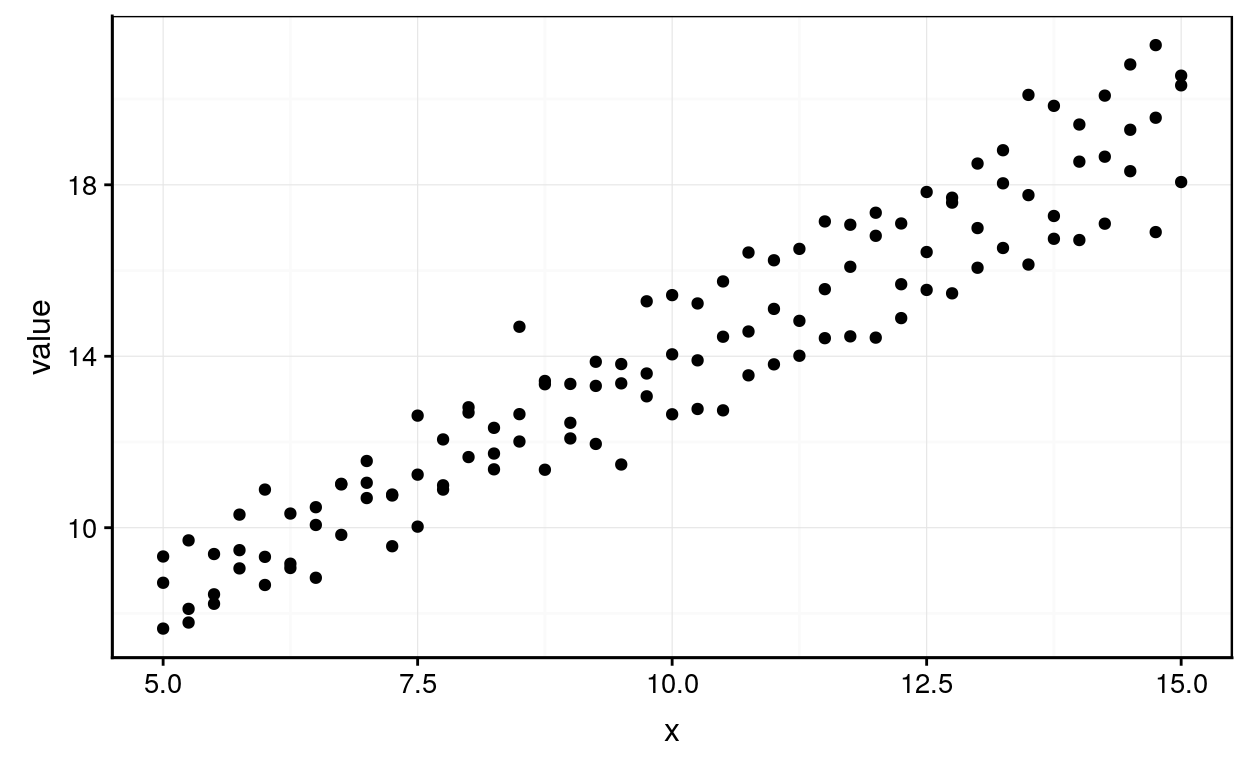
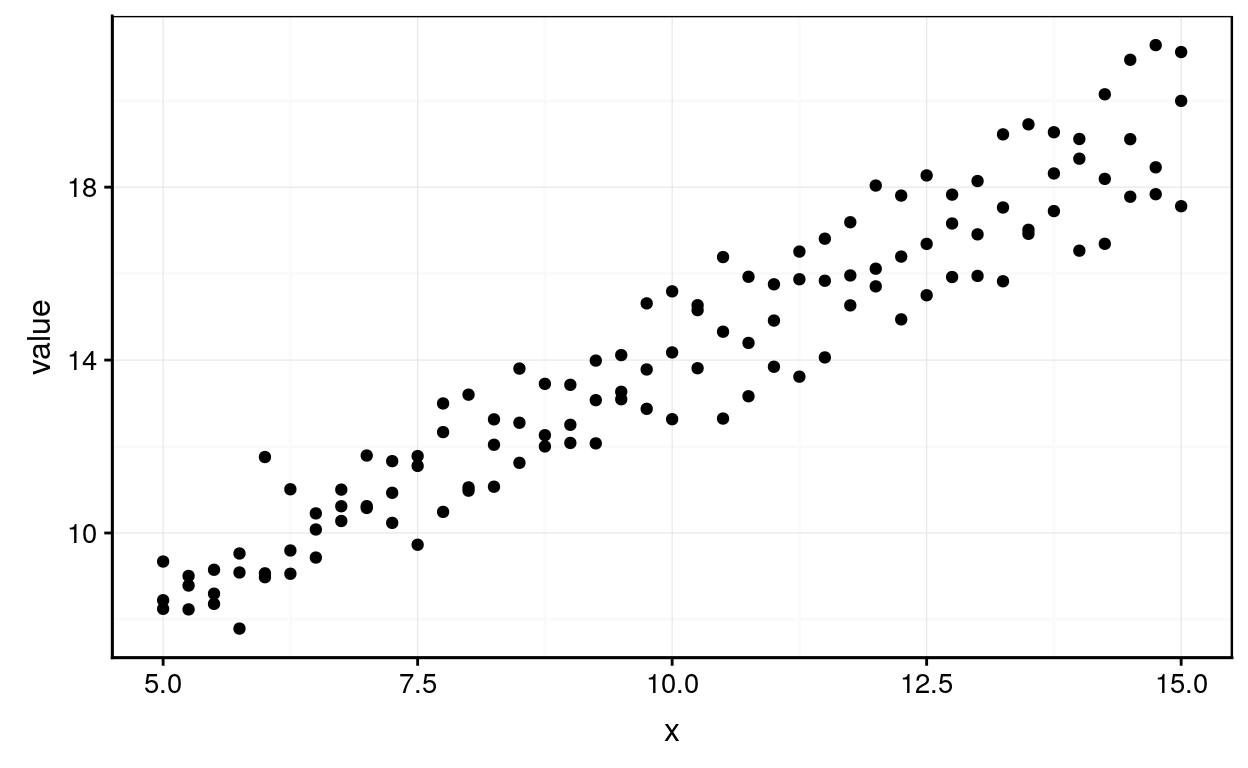
01a_reg_lin changements mineurs

diff --git a/inst/tutorials/01a_reg_lin/reg_lin_simp.html b/inst/tutorials/01a_reg_lin/reg_lin_simp.html
@@ -100,14 +100,14 @@ correlation(DF[, INDEX_EXPRESSION], use = &quot;complete.obs&quot;, method = &qu
 </div>
 <p>Répondez à la question ci-dessous</p>
 
-<div id="htmlwidget-3df863f24ac0b9c240ae" style="width:100%;height:auto;", class = "quiz html-widget">
+<div id="htmlwidget-b0187c75631e061f7bce" style="width:100%;height:auto;", class = "quiz html-widget">
 <div class="panel panel-default">
 <div class="panel-body quizArea">
 </div>
 </div>
 </div>
 
-<script type="application/json" data-for="htmlwidget-3df863f24ac0b9c240ae">{"x":{"question":"Quelles sont les combinaisons de variables les plus corrélées ?","answers":[{"option":"x-y","correct":true,"message":null},{"option":"x-z","correct":false,"message":null},{"option":"x-a","correct":false,"message":null},{"option":"y-z","correct":false,"message":null},{"option":"y-a","correct":false,"message":null},{"option":"z-a","correct":false,"message":null}],"label":"qu_corr1","skipStartButton":true,"perQuestionResponseAnswers":true,"perQuestionResponseMessaging":true,"preventUnanswered":true,"displayQuestionCount":false,"displayQuestionNumber":false,"disableRanking":true,"nextQuestionText":"","checkAnswerText":"Submit Answer","allowRetry":true,"randomSortAnswers":true,"json":{"info":{"name":"","main":""},"questions":[{"q":"Quelles sont les combinaisons de variables les plus corrélées ?","a":[{"option":"x-y","correct":true,"message":null},{"option":"x-z","correct":false,"message":null},{"option":"x-a","correct":false,"message":null},{"option":"y-z","correct":false,"message":null},{"option":"y-a","correct":false,"message":null},{"option":"z-a","correct":false,"message":null}],"correct":"Correct!","incorrect":"Incorrect."}]}},"evals":[],"jsHooks":[]}</script>
+<script type="application/json" data-for="htmlwidget-b0187c75631e061f7bce">{"x":{"question":"Quelles sont les combinaisons de variables les plus corrélées ?","answers":[{"option":"x-y","correct":true,"message":null},{"option":"x-z","correct":false,"message":null},{"option":"x-a","correct":false,"message":null},{"option":"y-z","correct":false,"message":null},{"option":"y-a","correct":false,"message":null},{"option":"z-a","correct":false,"message":null}],"label":"qu_corr1","skipStartButton":true,"perQuestionResponseAnswers":true,"perQuestionResponseMessaging":true,"preventUnanswered":true,"displayQuestionCount":false,"displayQuestionNumber":false,"disableRanking":true,"nextQuestionText":"","checkAnswerText":"Submit Answer","allowRetry":true,"randomSortAnswers":true,"json":{"info":{"name":"","main":""},"questions":[{"q":"Quelles sont les combinaisons de variables les plus corrélées ?","a":[{"option":"x-y","correct":true,"message":null},{"option":"x-z","correct":false,"message":null},{"option":"x-a","correct":false,"message":null},{"option":"y-z","correct":false,"message":null},{"option":"y-a","correct":false,"message":null},{"option":"z-a","correct":false,"message":null}],"correct":"Correct!","incorrect":"Incorrect."}]}},"evals":[],"jsHooks":[]}</script>
 <ul>
 <li>Réalisez une matrice de correlation avec la méthode de Spearman</li>
 </ul>
@@ -129,14 +129,14 @@ correlation(DF[, INDEX_EXPRESSION], use = &quot;complete.obs&quot;, method = &qu
 </div>
 <p>Répondez à la question ci-dessous</p>
 
-<div id="htmlwidget-6d1817a09071ea6916d6" style="width:100%;height:auto;", class = "quiz html-widget">
+<div id="htmlwidget-590a72c2da95e00e7ca0" style="width:100%;height:auto;", class = "quiz html-widget">
 <div class="panel panel-default">
 <div class="panel-body quizArea">
 </div>
 </div>
 </div>
 
-<script type="application/json" data-for="htmlwidget-6d1817a09071ea6916d6">{"x":{"question":"Quelles sont les combinaisons de variables les moins corrélées ?","answers":[{"option":"x-y","correct":false,"message":null},{"option":"x-z","correct":false,"message":null},{"option":"x-a","correct":false,"message":null},{"option":"y-z","correct":false,"message":null},{"option":"y-a","correct":false,"message":null},{"option":"z-a","correct":true,"message":null}],"label":"qu_corr2","skipStartButton":true,"perQuestionResponseAnswers":true,"perQuestionResponseMessaging":true,"preventUnanswered":true,"displayQuestionCount":false,"displayQuestionNumber":false,"disableRanking":true,"nextQuestionText":"","checkAnswerText":"Submit Answer","allowRetry":true,"randomSortAnswers":true,"json":{"info":{"name":"","main":""},"questions":[{"q":"Quelles sont les combinaisons de variables les moins corrélées ?","a":[{"option":"x-y","correct":false,"message":null},{"option":"x-z","correct":false,"message":null},{"option":"x-a","correct":false,"message":null},{"option":"y-z","correct":false,"message":null},{"option":"y-a","correct":false,"message":null},{"option":"z-a","correct":true,"message":null}],"correct":"Correct!","incorrect":"Incorrect."}]}},"evals":[],"jsHooks":[]}</script>
+<script type="application/json" data-for="htmlwidget-590a72c2da95e00e7ca0">{"x":{"question":"Quelles sont les combinaisons de variables les moins corrélées ?","answers":[{"option":"x-y","correct":false,"message":null},{"option":"x-z","correct":false,"message":null},{"option":"x-a","correct":false,"message":null},{"option":"y-z","correct":false,"message":null},{"option":"y-a","correct":false,"message":null},{"option":"z-a","correct":true,"message":null}],"label":"qu_corr2","skipStartButton":true,"perQuestionResponseAnswers":true,"perQuestionResponseMessaging":true,"preventUnanswered":true,"displayQuestionCount":false,"displayQuestionNumber":false,"disableRanking":true,"nextQuestionText":"","checkAnswerText":"Submit Answer","allowRetry":true,"randomSortAnswers":true,"json":{"info":{"name":"","main":""},"questions":[{"q":"Quelles sont les combinaisons de variables les moins corrélées ?","a":[{"option":"x-y","correct":false,"message":null},{"option":"x-z","correct":false,"message":null},{"option":"x-a","correct":false,"message":null},{"option":"y-z","correct":false,"message":null},{"option":"y-a","correct":false,"message":null},{"option":"z-a","correct":true,"message":null}],"correct":"Correct!","incorrect":"Incorrect."}]}},"evals":[],"jsHooks":[]}</script>
 <ul>
 <li>Reproduisez le graphique ci-dessous en vous basant sur vos matrices réalisées précédements</li>
 </ul>
@@ -149,6 +149,9 @@ correlation(DF[, INDEX_EXPRESSION], use = &quot;complete.obs&quot;, method = &qu
 </div>
 <div class="tutorial-exercise-support" data-label="corr3-solution" data-caption="Code R" data-completion="1" data-diagnostics="1" data-startover="1" data-lines="0">
 <pre class="text"><code>plot(correlation(df[, 1:4], use = &quot;complete.obs&quot;, method = &quot;spearman&quot;), type = &quot;upper&quot;)</code></pre>
+</div>
+<div class="tutorial-exercise-support" data-label="corr3-check" data-caption="Code R" data-completion="1" data-diagnostics="1" data-startover="1" data-lines="0">
+<pre class="text"><code># TODO</code></pre>
 </div>
 </div>
 <div id="section-homoscedasicite" class="section level2">
@@ -186,26 +189,26 @@ bartlett.test(data = df, value ~ x)</code></pre>
 <pre class="text"><code># TODO</code></pre>
 </div>
 
-<div id="htmlwidget-2be8afc5e70c9632d8cf" style="width:100%;height:auto;", class = "quiz html-widget">
+<div id="htmlwidget-0f774cb87b795c739872" style="width:100%;height:auto;", class = "quiz html-widget">
 <div class="panel panel-default">
 <div class="panel-body quizArea">
 </div>
 </div>
 </div>
 
-<script type="application/json" data-for="htmlwidget-2be8afc5e70c9632d8cf">{"x":{"question":"D&#39;après votre analyse, pouvons nous considérer qu&#39;il y a ...","answers":[{"option":"homoscédasticité","correct":false,"message":null},{"option":"hétéroscédasticité","correct":false,"message":null}],"label":"qu_homo","skipStartButton":true,"perQuestionResponseAnswers":true,"perQuestionResponseMessaging":true,"preventUnanswered":true,"displayQuestionCount":false,"displayQuestionNumber":false,"disableRanking":true,"nextQuestionText":"","checkAnswerText":"Submit Answer","allowRetry":false,"randomSortAnswers":false,"json":{"info":{"name":"","main":""},"questions":[{"q":"D&#39;après votre analyse, pouvons nous considérer qu&#39;il y a ...","a":[{"option":"homoscédasticité","correct":false,"message":null},{"option":"hétéroscédasticité","correct":false,"message":null}],"correct":"Correct!","incorrect":"Incorrect."}]}},"evals":[],"jsHooks":[]}</script>
+<script type="application/json" data-for="htmlwidget-0f774cb87b795c739872">{"x":{"question":"D&#39;après votre analyse, pouvons nous considérer qu&#39;il y a ...","answers":[{"option":"homoscédasticité","correct":false,"message":null},{"option":"hétéroscédasticité","correct":false,"message":null}],"label":"qu_homo","skipStartButton":true,"perQuestionResponseAnswers":true,"perQuestionResponseMessaging":true,"preventUnanswered":true,"displayQuestionCount":false,"displayQuestionNumber":false,"disableRanking":true,"nextQuestionText":"","checkAnswerText":"Submit Answer","allowRetry":false,"randomSortAnswers":false,"json":{"info":{"name":"","main":""},"questions":[{"q":"D&#39;après votre analyse, pouvons nous considérer qu&#39;il y a ...","a":[{"option":"homoscédasticité","correct":false,"message":null},{"option":"hétéroscédasticité","correct":false,"message":null}],"correct":"Correct!","incorrect":"Incorrect."}]}},"evals":[],"jsHooks":[]}</script>
 </div>
 <div id="section-regression-lineaire" class="section level2">
 <h2>Régression linéaire</h2>
 <p>Réalisez la régression linéaire de <code>value</code> en fonction de <code>x</code> sur le jeu de données <code>mais</code>. Vous avez à votre dispositon un nuage de points et un résumé des données pour avoir une première connaissance de données.</p>
 <p><img src="reg_lin_simp_files/figure-html/unnamed-chunk-6-1.png" width="624" /></p>
 <pre><code>       x            value        area  
- Min.   : 5.0   Min.   : 7.647   a:41  
- 1st Qu.: 7.5   1st Qu.:11.036   b:41  
- Median :10.0   Median :13.818   c:41  
- Mean   :10.0   Mean   :13.956         
- 3rd Qu.:12.5   3rd Qu.:16.726         
- Max.   :15.0   Max.   :21.259         </code></pre>
+ Min.   : 5.0   Min.   : 7.789   a:41  
+ 1st Qu.: 7.5   1st Qu.:11.063   b:41  
+ Median :10.0   Median :13.812   c:41  
+ Mean   :10.0   Mean   :14.000         
+ 3rd Qu.:12.5   3rd Qu.:16.689         
+ Max.   :15.0   Max.   :21.286         </code></pre>
 <div class="tutorial-exercise-support" data-label="reg1-prep" data-caption="Code R" data-completion="1" data-diagnostics="1" data-startover="1" data-lines="0">
 <pre class="text"><code>set.seed(42)
 x &lt;- seq(from = 5, to = 15, by = 0.25)
@@ -242,27 +245,27 @@ summary(lm. &lt;- lm(data = DF, FORMULA))</code></pre>
 <tr>
 <td>
 
-<div id="htmlwidget-36bc903447cf0551bcce" style="width:100%;height:auto;", class = "quiz html-widget">
+<div id="htmlwidget-b13090575c46ef109868" style="width:100%;height:auto;", class = "quiz html-widget">
 <div class="panel panel-default">
 <div class="panel-body quizArea">
 </div>
 </div>
 </div>
 
-<script type="application/json" data-for="htmlwidget-36bc903447cf0551bcce">{"x":{"question":"Quelle est la valeur de l&#39;ordonnée à l&#39;origine ?","answers":[{"option":"3.26","correct":true,"message":null},{"option":"1.07","correct":false,"message":null},{"option":"0.32","correct":false,"message":null},{"option":"0.03","correct":false,"message":null},{"option":"10.21","correct":false,"message":null},{"option":"35.04","correct":false,"message":null},{"option":"0.91","correct":false,"message":null}],"label":"qu_reglin1-1","skipStartButton":true,"perQuestionResponseAnswers":true,"perQuestionResponseMessaging":true,"preventUnanswered":true,"displayQuestionCount":false,"displayQuestionNumber":false,"disableRanking":true,"nextQuestionText":"","checkAnswerText":"Submit Answer","allowRetry":true,"randomSortAnswers":true,"json":{"info":{"name":"","main":""},"questions":[{"q":"Quelle est la valeur de l&#39;ordonnée à l&#39;origine ?","a":[{"option":"3.26","correct":true,"message":null},{"option":"1.07","correct":false,"message":null},{"option":"0.32","correct":false,"message":null},{"option":"0.03","correct":false,"message":null},{"option":"10.21","correct":false,"message":null},{"option":"35.04","correct":false,"message":null},{"option":"0.91","correct":false,"message":null}],"correct":"Correct!","incorrect":"Incorrect."}]}},"evals":[],"jsHooks":[]}</script>
+<script type="application/json" data-for="htmlwidget-b13090575c46ef109868">{"x":{"question":"Quelle est la valeur de l&#39;ordonnée à l&#39;origine ?","answers":[{"option":"3.26","correct":true,"message":null},{"option":"1.07","correct":false,"message":null},{"option":"0.32","correct":false,"message":null},{"option":"0.03","correct":false,"message":null},{"option":"10.21","correct":false,"message":null},{"option":"35.04","correct":false,"message":null},{"option":"0.91","correct":false,"message":null}],"label":"qu_reglin1-1","skipStartButton":true,"perQuestionResponseAnswers":true,"perQuestionResponseMessaging":true,"preventUnanswered":true,"displayQuestionCount":false,"displayQuestionNumber":false,"disableRanking":true,"nextQuestionText":"","checkAnswerText":"Submit Answer","allowRetry":true,"randomSortAnswers":true,"json":{"info":{"name":"","main":""},"questions":[{"q":"Quelle est la valeur de l&#39;ordonnée à l&#39;origine ?","a":[{"option":"3.26","correct":true,"message":null},{"option":"1.07","correct":false,"message":null},{"option":"0.32","correct":false,"message":null},{"option":"0.03","correct":false,"message":null},{"option":"10.21","correct":false,"message":null},{"option":"35.04","correct":false,"message":null},{"option":"0.91","correct":false,"message":null}],"correct":"Correct!","incorrect":"Incorrect."}]}},"evals":[],"jsHooks":[]}</script>
 </td>
 </tr>
 <tr>
 <td>
 
-<div id="htmlwidget-3d452b8c100a59685a61" style="width:100%;height:auto;", class = "quiz html-widget">
+<div id="htmlwidget-3b07deb10b5b1ef760eb" style="width:100%;height:auto;", class = "quiz html-widget">
 <div class="panel panel-default">
 <div class="panel-body quizArea">
 </div>
 </div>
 </div>
 
-<script type="application/json" data-for="htmlwidget-3d452b8c100a59685a61">{"x":{"question":"Quelle est la valeur de la pente ?","answers":[{"option":"3.26","correct":false,"message":null},{"option":"1.07","correct":true,"message":null},{"option":"0.32","correct":false,"message":null},{"option":"0.03","correct":false,"message":null},{"option":"10.21","correct":false,"message":null},{"option":"35.04","correct":false,"message":null},{"option":"0.91","correct":false,"message":null}],"label":"qu_reglin1-2","skipStartButton":true,"perQuestionResponseAnswers":true,"perQuestionResponseMessaging":true,"preventUnanswered":true,"displayQuestionCount":false,"displayQuestionNumber":false,"disableRanking":true,"nextQuestionText":"","checkAnswerText":"Submit Answer","allowRetry":true,"randomSortAnswers":true,"json":{"info":{"name":"","main":""},"questions":[{"q":"Quelle est la valeur de la pente ?","a":[{"option":"3.26","correct":false,"message":null},{"option":"1.07","correct":true,"message":null},{"option":"0.32","correct":false,"message":null},{"option":"0.03","correct":false,"message":null},{"option":"10.21","correct":false,"message":null},{"option":"35.04","correct":false,"message":null},{"option":"0.91","correct":false,"message":null}],"correct":"Correct!","incorrect":"Incorrect."}]}},"evals":[],"jsHooks":[]}</script>
+<script type="application/json" data-for="htmlwidget-3b07deb10b5b1ef760eb">{"x":{"question":"Quelle est la valeur de la pente ?","answers":[{"option":"3.26","correct":false,"message":null},{"option":"1.07","correct":true,"message":null},{"option":"0.32","correct":false,"message":null},{"option":"0.03","correct":false,"message":null},{"option":"10.21","correct":false,"message":null},{"option":"35.04","correct":false,"message":null},{"option":"0.91","correct":false,"message":null}],"label":"qu_reglin1-2","skipStartButton":true,"perQuestionResponseAnswers":true,"perQuestionResponseMessaging":true,"preventUnanswered":true,"displayQuestionCount":false,"displayQuestionNumber":false,"disableRanking":true,"nextQuestionText":"","checkAnswerText":"Submit Answer","allowRetry":true,"randomSortAnswers":true,"json":{"info":{"name":"","main":""},"questions":[{"q":"Quelle est la valeur de la pente ?","a":[{"option":"3.26","correct":false,"message":null},{"option":"1.07","correct":true,"message":null},{"option":"0.32","correct":false,"message":null},{"option":"0.03","correct":false,"message":null},{"option":"10.21","correct":false,"message":null},{"option":"35.04","correct":false,"message":null},{"option":"0.91","correct":false,"message":null}],"correct":"Correct!","incorrect":"Incorrect."}]}},"evals":[],"jsHooks":[]}</script>
 </td>
 </tr>
 </table>
@@ -353,7 +356,7 @@ output$`tutorial-exercise-comm-output` <- renderUI({
 <!--/html_preserve-->
 <!--html_preserve-->
 <script type="application/shiny-prerendered" data-context="execution_dependencies">
-{"type":"list","attributes":{"names":{"type":"character","attributes":{},"value":["packages"]}},"value":[{"type":"list","attributes":{"names":{"type":"character","attributes":{},"value":["packages","version"]},"class":{"type":"character","attributes":{},"value":["data.frame"]},"row.names":{"type":"integer","attributes":{},"value":[1,2,3,4,5,6,7,8,9,10,11,12,13,14,15,16,17,18,19,20,21,22,23,24,25,26,27,28,29,30,31,32,33,34,35,36,37,38,39,40,41,42,43,44,45,46,47,48,49,50,51,52,53,54,55,56,57,58,59,60,61,62,63,64,65,66,67,68,69,70,71,72,73,74,75,76,77,78,79,80,81,82,83,84,85,86,87,88,89,90,91,92,93,94,95,96,97,98,99,100,101,102,103,104,105,106,107,108,109,110,111,112]}},"value":[{"type":"character","attributes":{},"value":["acepack","assertthat","backports","base","base64enc","BioDataScience","broom","cellranger","chart","checkmate","cli","cluster","codetools","colorspace","compiler","cowplot","crayon","data.io","data.table","datasets","digest","dplyr","ellipse","evaluate","flow","forcats","foreign","Formula","generics","ggplot2","ggplotify","ggpubr","glue","graphics","grDevices","grid","gridExtra","gridGraphics","gtable","haven","Hmisc","hms","htmlTable","htmltools","htmlwidgets","httpuv","httr","igraph","inline","jsonlite","knitr","labeling","later","lattice","latticeExtra","lazyeval","learnr","lubridate","magrittr","markdown","MASS","Matrix","methods","mime","modelr","mongolite","munsell","nlme","nnet","pillar","pkgconfig","plyr","promises","proto","pryr","purrr","R6","RColorBrewer","Rcpp","readr","readxl","remotes","rlang","rmarkdown","rpart","rprojroot","rstudioapi","rvcheck","rvest","scales","SciViews","shiny","splines","stats","stringi","stringr","survival","svMisc","tibble","tidyr","tidyselect","tidyverse","tools","tsibble","utils","viridis","viridisLite","withr","xfun","xml2","xtable","yaml"]},{"type":"character","attributes":{},"value":["1.4.1","0.2.1","1.1.3","3.5.3","0.1-3","2019.1.0","0.5.2","1.1.0","1.3.0","1.9.1","1.1.0","2.0.8","0.2-16","1.4-1","3.5.3","0.9.4","1.3.4","1.2.2","1.12.2","3.5.3","0.6.18","0.8.0.1","0.4.1","0.13","1.0.0","0.4.0","0.8-71","1.2-3","0.0.2","3.1.1","0.0.3","0.2","1.3.1","3.5.3","3.5.3","3.5.3","2.3","0.3-0","0.3.0","2.1.0","4.2-0","0.4.2","1.13.1","0.3.6","1.3","1.5.1","1.4.0","1.2.4","0.3.15","1.6","1.22","0.3","0.8.0","0.20-38","0.6-28","0.2.2","0.9.2.1","1.7.4","1.5","0.9","7.3-51.3","1.2-17","3.5.3","0.6","0.1.4","2.0.1","0.5.0","3.1-138","7.3-12","1.3.1","2.0.2","1.8.4","1.0.1","1.0.0","0.1.4","0.3.2","2.4.0","1.1-2","1.0.1","1.3.1","1.3.1","2.0.2","0.3.4","1.12","4.1-13","1.3-2","0.10","0.1.3","0.3.2","1.0.0","1.1.0","1.3.0","3.5.3","3.5.3","1.4.3","1.4.0","2.44-1.1","1.1.0","2.1.1","0.8.3","0.2.5","1.2.1","3.5.3","0.7.0","3.5.3","0.5.1","0.3.0","2.1.2","0.6","1.2.0","1.8-3","2.2.0"]}]}]}
+{"type":"list","attributes":{"names":{"type":"character","attributes":{},"value":["packages"]}},"value":[{"type":"list","attributes":{"names":{"type":"character","attributes":{},"value":["packages","version"]},"class":{"type":"character","attributes":{},"value":["data.frame"]},"row.names":{"type":"integer","attributes":{},"value":[1,2,3,4,5,6,7,8,9,10,11,12,13,14,15,16,17,18,19,20,21,22,23,24,25,26,27,28,29,30,31,32,33,34,35,36,37,38,39,40,41,42,43,44,45,46,47,48,49,50,51,52,53,54,55,56,57,58,59,60,61,62,63,64,65,66,67,68,69,70,71,72,73,74,75,76,77,78,79,80,81,82,83,84,85,86,87,88,89,90,91,92,93,94,95,96,97,98,99,100,101,102,103,104,105,106,107,108,109,110,111,112,113,114,115,116,117,118]}},"value":[{"type":"character","attributes":{},"value":["acepack","assertthat","backports","base","base64enc","BioDataScience","broom","cellranger","chart","checkmate","cli","cluster","codetools","colorspace","compiler","cowplot","crayon","data.io","data.table","datasets","digest","dplyr","ellipse","evaluate","farver","flow","forcats","foreign","Formula","generics","gganimate","ggplot2","ggplotify","ggpubr","glue","graphics","grDevices","grid","gridExtra","gridGraphics","gtable","haven","Hmisc","hms","htmlTable","htmltools","htmlwidgets","httpuv","httr","igraph","inline","jsonlite","knitr","labeling","later","lattice","latticeExtra","lazyeval","learnr","lubridate","magick","magrittr","markdown","MASS","Matrix","methods","mime","modelr","mongolite","munsell","nlme","nnet","pillar","pkgconfig","plyr","prettyunits","progress","promises","proto","pryr","purrr","R6","RColorBrewer","Rcpp","readr","readxl","remotes","rlang","rmarkdown","rpart","rprojroot","rstudioapi","rvcheck","rvest","scales","SciViews","shiny","splines","stats","stringi","stringr","survival","svMisc","tibble","tidyr","tidyselect","tidyverse","tools","tsibble","tweenr","utils","viridis","viridisLite","withr","xfun","xml2","xtable","yaml"]},{"type":"character","attributes":{},"value":["1.4.1","0.2.1","1.1.3","3.5.3","0.1-3","2019.1.0","0.5.2","1.1.0","1.3.0","1.9.1","1.1.0","2.0.8","0.2-16","1.4-1","3.5.3","0.9.4","1.3.4","1.2.2","1.12.2","3.5.3","0.6.18","0.8.0.1","0.4.1","0.13","1.1.0","1.0.0","0.4.0","0.8-71","1.2-3","0.0.2","1.0.3","3.1.1","0.0.3","0.2","1.3.1","3.5.3","3.5.3","3.5.3","2.3","0.3-0","0.3.0","2.1.0","4.2-0","0.4.2","1.13.1","0.3.6","1.3","1.5.1","1.4.0","1.2.4","0.3.15","1.6","1.22","0.3","0.8.0","0.20-38","0.6-28","0.2.2","0.9.2.1","1.7.4","2.0","1.5","0.9","7.3-51.3","1.2-17","3.5.3","0.6","0.1.4","2.0.1","0.5.0","3.1-138","7.3-12","1.3.1","2.0.2","1.8.4","1.0.2","1.2.0","1.0.1","1.0.0","0.1.4","0.3.2","2.4.0","1.1-2","1.0.1","1.3.1","1.3.1","2.0.2","0.3.4","1.12","4.1-13","1.3-2","0.10","0.1.3","0.3.2","1.0.0","1.1.0","1.3.0","3.5.3","3.5.3","1.4.3","1.4.0","2.44-1.1","1.1.0","2.1.1","0.8.3","0.2.5","1.2.1","3.5.3","0.7.0","1.0.1","3.5.3","0.5.1","0.3.0","2.1.2","0.6","1.2.0","1.8-3","2.2.0"]}]}]}
 </script>
 <!--/html_preserve-->
 </div>
